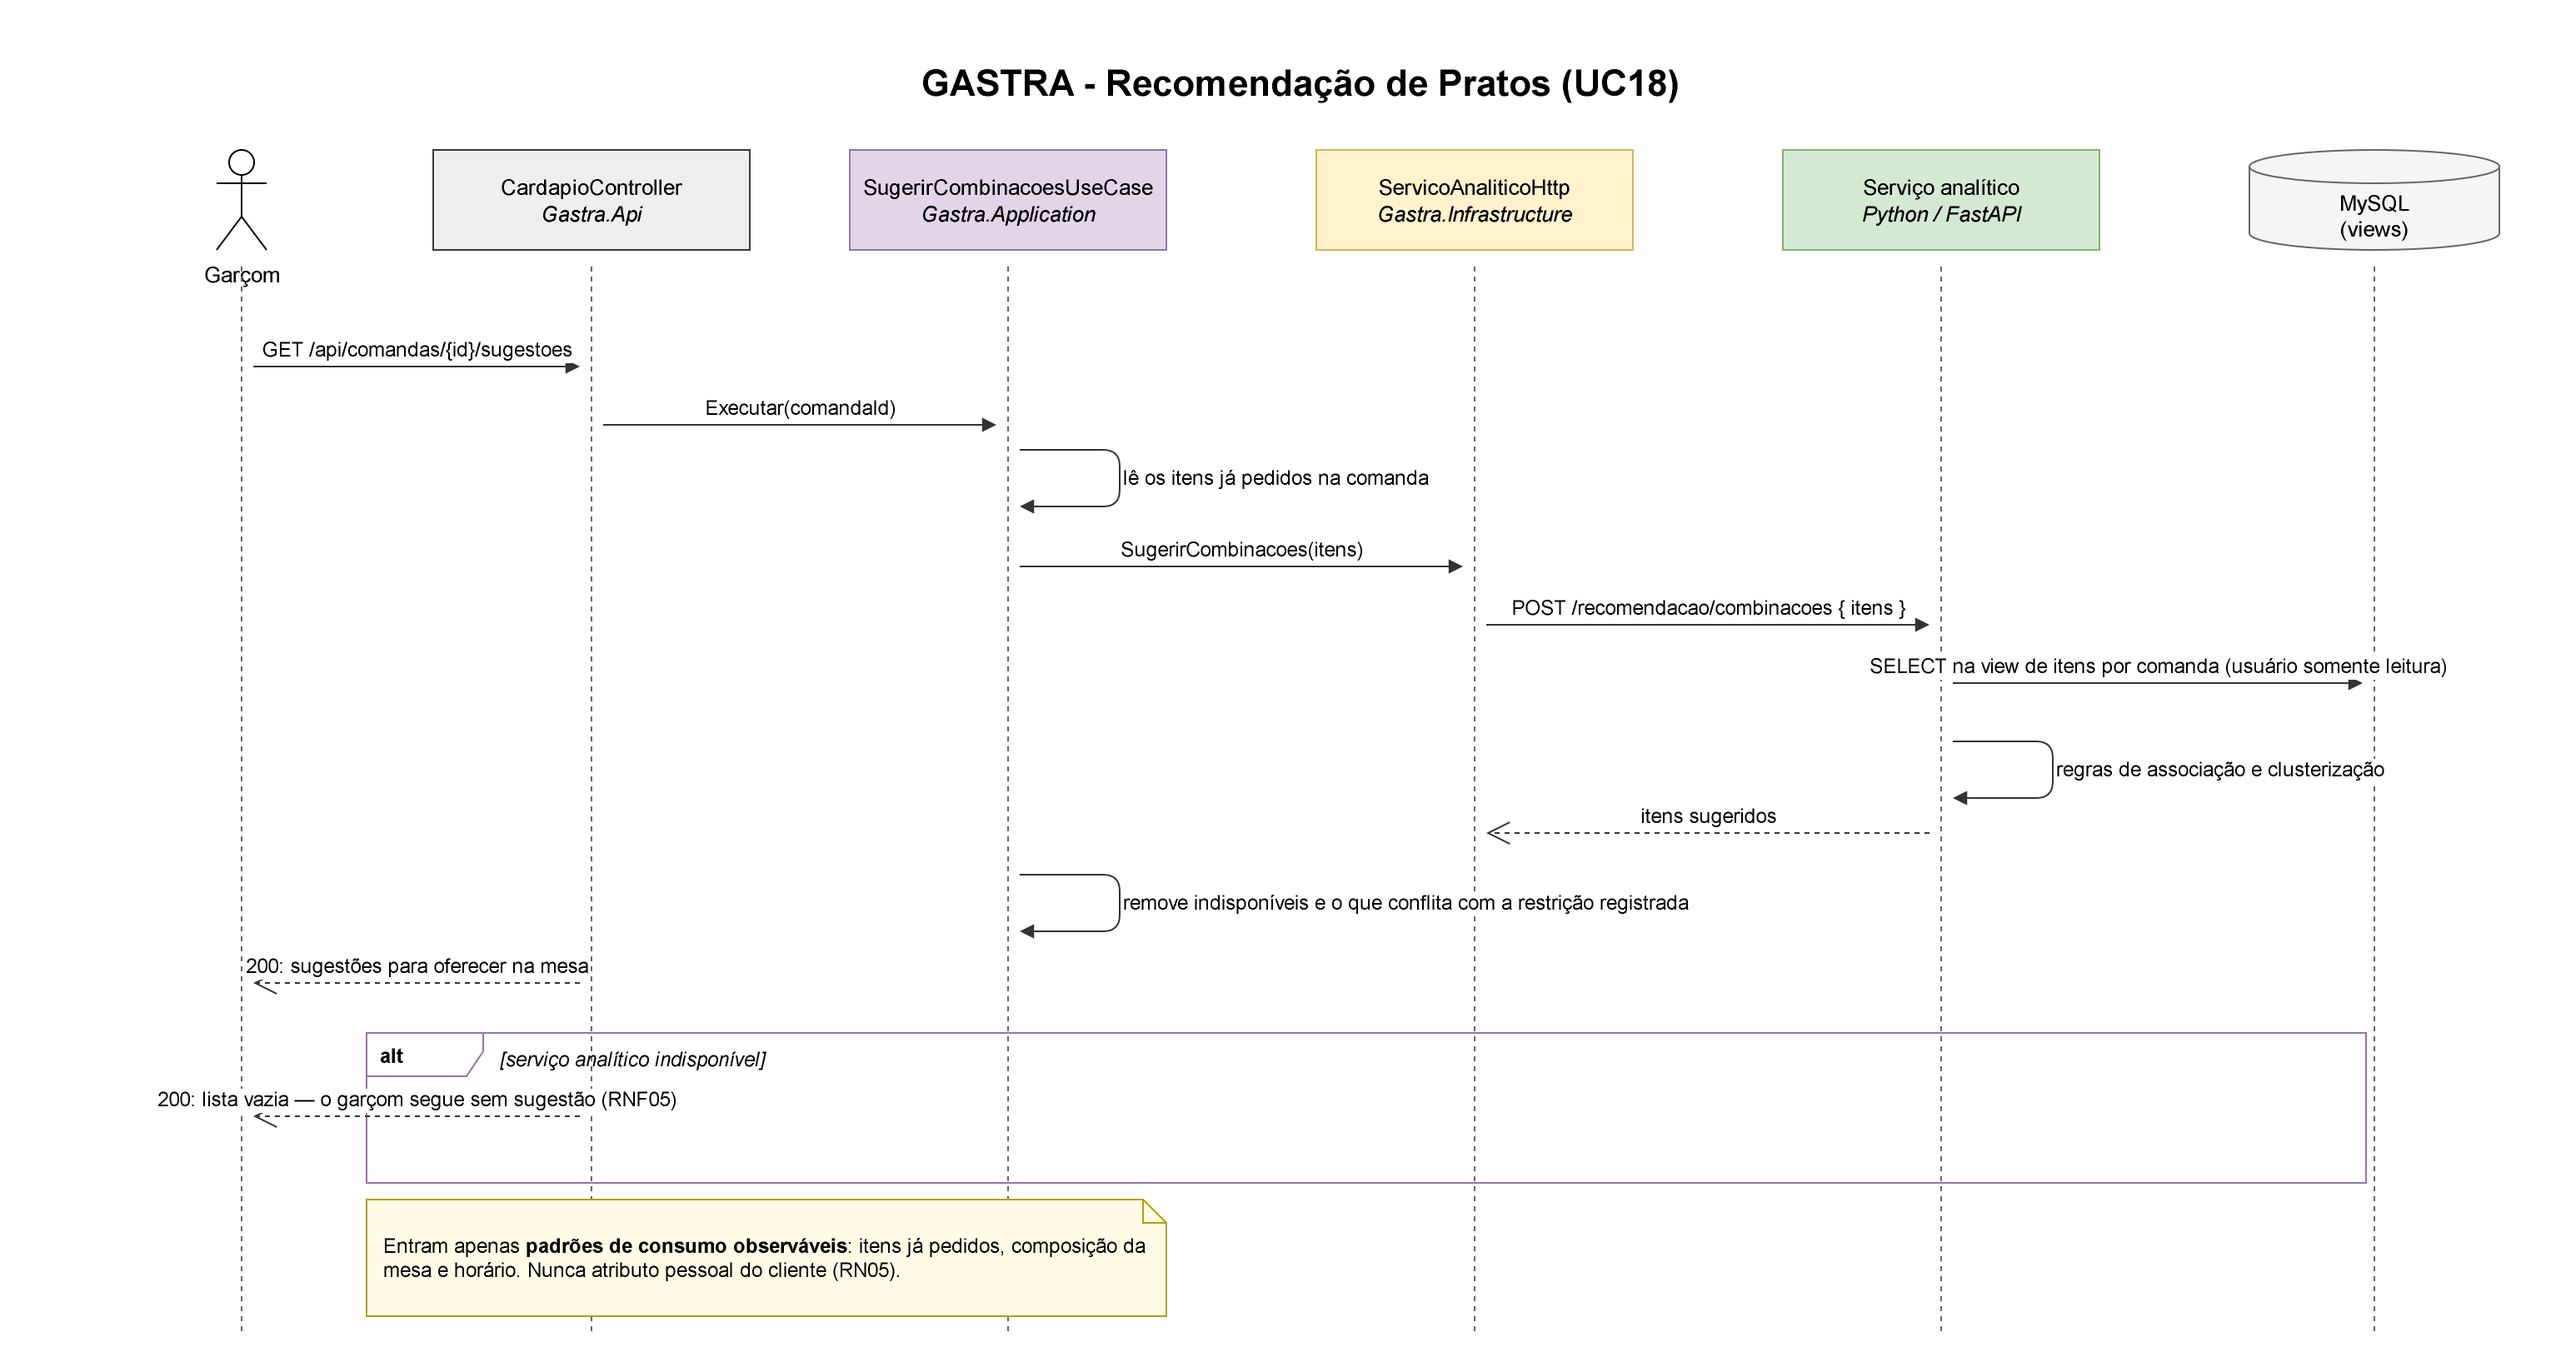
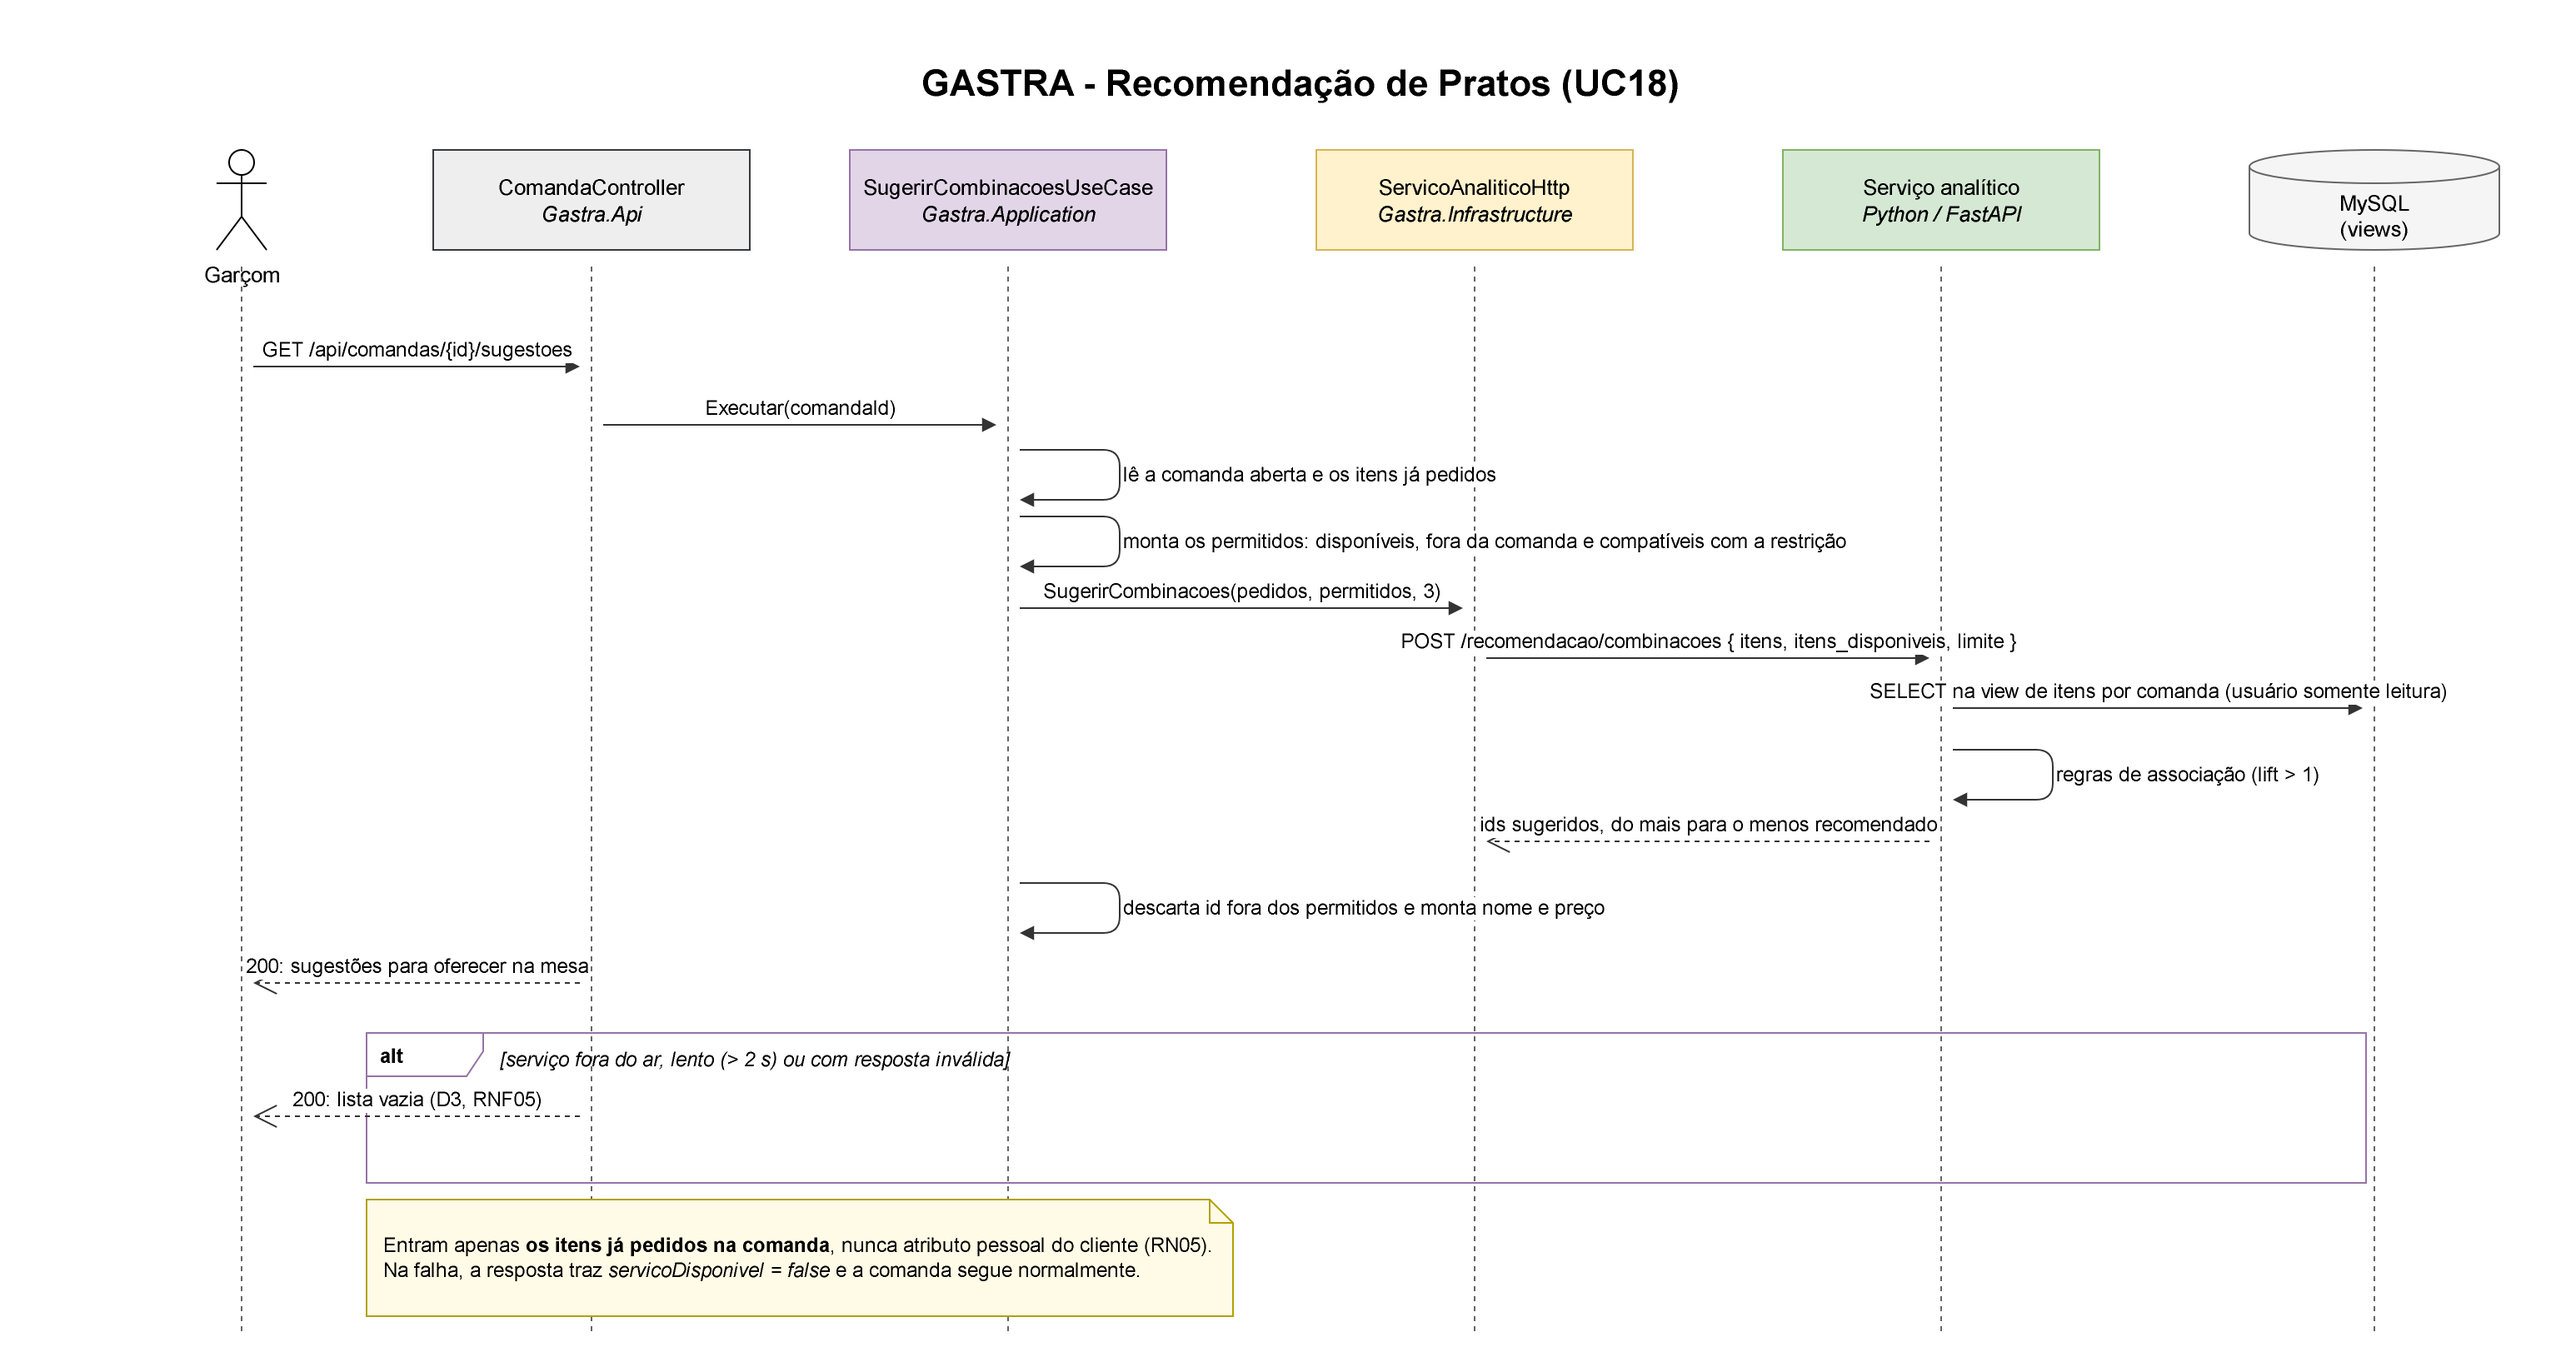
docs: integracao com o servico analitico nos diagramas e na arquitetura

diff --git a/docs/arquitetura/GASTRA_Arquitetura.md b/docs/arquitetura/GASTRA_Arquitetura.md
@@ -23,7 +23,7 @@ O GASTRA tem três componentes de software e um banco de dados:
 |---|---|---|---|
 | **Frontend** | Angular 22 (SPA) | Telas do garçom, metre, gerente, coordenador e cliente | ✅ estrutura inicial · 🔜 telas |
 | **Backend** | ASP.NET Core (.NET 10) | Regras de negócio, autenticação, autorização, gravação no banco | ✅ cardápio, autenticação, usuários · 🔜 comandas, alocação, BI |
-| **Camada analítica** | Python 3.13 + FastAPI | Cálculos: recomendação de pratos e alocação de garçons por programação linear | ✅ estrutura e `/health` · 🔜 algoritmos |
+| **Camada analítica** | Python 3.13 + FastAPI | Cálculos: recomendação de pratos e alocação de garçons por programação linear | ✅ recomendação e alocação; sugestão de pratos já chamada pelo backend · 🔜 leitura das views (D10) e chamada da alocação |
 | **Banco de dados** | MySQL 8.4 | Dados transacionais e views de BI | ✅ tabelas do cardápio, de acesso e do núcleo de comandas · 🔜 promoções e views |
 
 O princípio que organiza tudo: **o backend é o único dono das regras de negócio e o único que
@@ -112,9 +112,9 @@ disciplina: se alguém quebrar a regra, o `dotnet test` avisa.
 
 ### 4.3 Inversão de dependência
 
-O domínio **define** o que precisa (`IRepositorioUsuario`, `ICriptografiaSenha`, 🔜
+O domínio **define** o que precisa (`IRepositorioUsuario`, `ICriptografiaSenha`,
 `IServicoAnalitico`), e a infraestrutura **implementa** (`RepositorioUsuario` com EF Core,
-`CriptografiaSenha` com BCrypt, 🔜 `ServicoAnaliticoHttp`). Trocar o MySQL, o algoritmo de hash
+`CriptografiaSenha` com BCrypt, `ServicoAnaliticoHttp` com `HttpClient`). Trocar o MySQL, o algoritmo de hash
 ou o serviço Python não exige mexer em regra de negócio — e os testes podem trocar o banco real
 por um banco em memória.
 
@@ -160,22 +160,29 @@ transforma em resposta HTTP. Todos os erros saem no mesmo formato:
 ```
 data-science/src/gastra_analitica/
 ├── api/            # FastAPI: recebe a requisição, chama o algoritmo, devolve JSON
-├── recomendacao/   # 🔜 regras de associação e clusterização (mlxtend, scikit-learn, pandas)
-└── alocacao/       # 🔜 programação linear da alocação de garçons (PuLP + solver CBC)
+├── recomendacao/   # ✅ regras de associação (mlxtend, pandas)
+├── alocacao/       # ✅ programação linear da alocação de garçons (PuLP + solver CBC)
+└── dados/          # ✅ simulador de histórico, usado enquanto o banco não tem movimento real
 ```
 
 Os algoritmos **não importam o FastAPI**: são funções Python comuns, testáveis e reaproveitáveis
 nos notebooks do TG. `tests/test_arquitetura.py` verifica isso automaticamente.
 
-### 5.2 Integração com o backend 🔜
+### 5.2 Integração com o backend
 
 | Uso | Quem chama | O que vai na requisição | O que volta |
 |---|---|---|---|
-| Sugestão de alocação (RF06, RN03) | Backend, quando o metre pede a sugestão | Data, período, garçons e praças disponíveis no turno | Pares garçom → praça |
-| Sugestão de pratos (RF09) | Backend, quando o garçom lança itens | Itens já pedidos na comanda | Itens sugeridos |
+| Sugestão de alocação (RF06, RN03) 🔜 | Backend, quando o metre pede a sugestão | Data, período, garçons e praças disponíveis no turno | Pares garçom → praça |
+| Sugestão de pratos (RF09) ✅ | Backend, quando o garçom abre as sugestões (`GET /api/comandas/{id}/sugestoes`) | Itens já pedidos e itens permitidos (disponíveis, fora da comanda, compatíveis com a restrição) | Ids sugeridos, em ordem |
 
 - O backend chama o serviço por meio de `IServicoAnalitico` (domínio), implementado por
-  `ServicoAnaliticoHttp` (infraestrutura), com tempo limite curto.
+  `ServicoAnaliticoHttp` (infraestrutura), com tempo limite de 2 s (configurável em
+  `ServicoAnalitico:TempoLimiteMilissegundos`).
+- **Falha não derruba o atendimento (D3):** fora do ar, lento ou com resposta inválida, o
+  `ServicoAnaliticoHttp` lança `ServicoAnaliticoIndisponivelException`. O caso de uso responde a lista
+  vazia com `servicoDisponivel = false`.
+- **O backend decide, o Python ordena:** o backend manda só os itens que podem ser oferecidos e, na
+  volta, descarta qualquer id fora dessa lista.
 - **O Python nunca grava.** O resultado volta ao backend, que valida e persiste (ex.: a alocação
   confirmada pelo metre, RF07).
 - **Leitura do histórico (decisão D10):** o Python lê somente views analíticas, com um

diff --git a/backend/README.md b/backend/README.md
@@ -234,6 +234,7 @@ Endpoints do **Garçom**, exceto onde indicado:
 | UC14 — Fechar a comanda | `POST /api/comandas/{id}/fechamento` |
 | Consultar comanda / painel do salão *(garçom, metre, coordenador, gerente)* | `GET /api/comandas/{id}` · `GET /api/comandas` |
 | UC20 — Consulta do cliente por QR code *(sem login)* | `GET /api/comandas/consulta/{codigoAcesso}` |
+| UC18 — Sugestões de itens para oferecer na mesa | `GET /api/comandas/{id}/sugestoes` |
 
 - **Composição da mesa (RN01):** o garçom informa quantas pessoas estão na mesa e o sistema sugere
   Solo, Casal, Grupo pequeno, Família ou Grupo grande. Um item infantil numa mesa de 3 ou mais
@@ -247,6 +248,47 @@ Endpoints do **Garçom**, exceto onde indicado:
   cliente mostra itens e valores, nunca a restrição ou quem é o garçom (RN04).
 - **Código de acesso:** cada comanda recebe um código único, usado no QR code da mesa. Ele funciona
   como senha da conta, por isso nunca aparece em log.
+
+## Sugestão de pratos (UC18, RF09)
+
+`GET /api/comandas/{id}/sugestoes` devolve até 3 itens para o garçom oferecer, calculados pela camada
+analítica em Python (regras de associação). O caminho é
+`SugerirCombinacoesUseCase` → `IServicoAnalitico` (domínio) → `ServicoAnaliticoHttp` (infraestrutura) →
+`POST /recomendacao/combinacoes` no FastAPI.
+
+- **O backend decide o que pode ser oferecido; o Python só ordena.** Antes de chamar o serviço, o
+  backend monta a lista de itens permitidos: disponíveis hoje (RF21), fora da comanda e compatíveis
+  com a restrição registrada. Na volta, descarta qualquer id fora dessa lista.
+- **Restrição alimentar:** vegano, vegetariano, sem glúten e sem lactose são conferidos pelas flags do
+  cardápio. Na dúvida, o item não é sugerido: um suco sem a flag "vegano" não vai para uma mesa vegana.
+  Alergia e "outro" só existem no texto livre, então não filtram nada e a resposta vem com
+  `confirmarRestricaoComCliente = true`.
+- **Python fora do ar não para o salão (D3, RNF05):** se o serviço não responde em 2 s, dá erro ou
+  devolve algo inválido, a resposta é `200` com a lista vazia e `servicoDisponivel = false`. O motivo
+  vai para o log técnico, sem dados da comanda.
+- **Privacidade (RN05):** só os ids dos itens pedidos vão para o Python. Nenhum dado do cliente.
+
+Configuração, em `appsettings.json` (sem segredo, por isso versionada):
+
+```json
+"ServicoAnalitico": {
+  "UrlBase": "http://localhost:8000",
+  "TempoLimiteMilissegundos": 2000
+}
+```
+
+Para ver a sugestão de verdade, suba o serviço Python (`data-science/README.md`). Sem ele, a API
+funciona normalmente e só a sugestão fica vazia.
+
+**Teste de contrato com o Python.** `ContratoComPythonTests` aparece como ignorado no `dotnet test`
+comum. Com o serviço Python no ar, rode:
+
+```bash
+GASTRA_TESTES_ANALITICA=http://localhost:8000 dotnet test
+```
+
+O teste chama o FastAPI de verdade pelo `ServicoAnaliticoHttp` e confere que os dois lados usam o
+mesmo formato de requisição e de resposta.
 
 ## Configurações locais
 

diff --git a/docs/arquitetura/GASTRA_Diagrama_Classes_Camadas.md b/docs/arquitetura/GASTRA_Diagrama_Classes_Camadas.md
@@ -397,7 +397,7 @@ encontrar.
 
 | Interface | Métodos | Requisito |
 |---|---|---|
-| `IServicoAnalitico` | `+SugerirAlocacao(data: DateOnly, periodo: PeriodoAlocacao): Task<List<SugestaoAlocacao>>` · `+SugerirCombinacoes(itemIds: List<int>): Task<List<int>>` | RF06, RF09 |
+| `IServicoAnalitico` | `+SugerirAlocacao(data: DateOnly, periodo: PeriodoAlocacao): Task<List<SugestaoAlocacao>>` · `+SugerirCombinacoes(pedidos: List<int>, permitidos: List<int>, limite: int): Task<List<int>>` | RF06, RF09 |
 
 `SugestaoAlocacao` é um objeto de valor do domínio (`GarcomId`, `PracaId`) — o resultado que o
 Python devolve e a Application transforma em `Alocacao`.
@@ -428,7 +428,7 @@ classDiagram
     class IServicoAnalitico {
         <<interface>>
         +SugerirAlocacao(data, periodo) Task~List~
-        +SugerirCombinacoes(itemIds) Task~List~
+        +SugerirCombinacoes(pedidos, permitidos, limite) Task~List~
     }
 
     class RepositorioComanda
